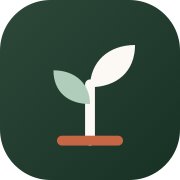
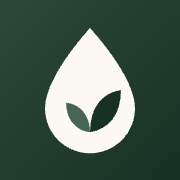
feat(brand): new Bagicha mark, a water drop holding two leaves

diff --git a/web/src/ui/BagichaLogo.tsx b/web/src/ui/BagichaLogo.tsx
@@ -1,21 +1,21 @@
 import { useId } from 'react';
+import { MARK, MARK_COLORS as C } from './bagicha-mark';
 
-/** The Bagicha mark: a cream sprout on a forest-green pebble. Same drawing as public/favicon.svg. */
+/** The Bagicha mark: a cream water drop holding two leaves, on a forest-green pebble. Same drawing as public/favicon.svg. */
 export function BagichaLogo({ size = 56, className }: { size?: number; className?: string }) {
   const gradient = useId();
   return (
     <svg viewBox="0 0 64 64" width={size} height={size} role="img" aria-label="Bagicha logo" className={className}>
       <defs>
         <linearGradient id={gradient} x1="0" y1="0" x2="1" y2="1">
-          <stop offset="0" stopColor="#2d4739" />
-          <stop offset="1" stopColor="#173124" />
+          <stop offset="0" stopColor={C.pebbleFrom} />
+          <stop offset="1" stopColor={C.pebbleTo} />
         </linearGradient>
       </defs>
       <rect width="64" height="64" rx="18" fill={`url(#${gradient})`} />
-      <path d="M32 50V30" stroke="#fcf9f4" strokeWidth="3.5" strokeLinecap="round" />
-      <path d="M32 31c0-9 6.5-15 16-15 0 9.5-6.5 15-16 15z" fill="#fcf9f4" />
-      <path d="M32 37c0-7-5-12-13-12 0 7.5 5 12 13 12z" fill="#b0cdbb" />
-      <path d="M22 50h20" stroke="#c76644" strokeWidth="3.5" strokeLinecap="round" />
+      <path d={MARK.drop} fill={C.drop} />
+      <path d={MARK.leafRight} fill={C.leafRight} />
+      <path d={MARK.leafLeft} fill={C.leafLeft} />
     </svg>
   );
 }

diff --git a/web/src/ui/bagicha-mark.ts b/web/src/ui/bagicha-mark.ts
@@ -1,0 +1,18 @@
+/**
+ * The Bagicha mark (owner's pick, 2026-11-26): a water drop holding two leaves, on a 64×64 grid.
+ * One source for the in-app logo; public/favicon.svg and the Android icons repeat these paths
+ * (a test keeps the favicon in step).
+ */
+export const MARK = {
+  drop: 'M32 10C32 10 48 27 48 38.5A16 16 0 0 1 16 38.5C16 27 32 10 32 10Z',
+  leafRight: 'M32 47C32 38 36.5 33 43 32C43 41 38.5 46 32 47Z',
+  leafLeft: 'M32 47C32 41 28.5 37 23.5 36.5C23.5 42.5 27 46.5 32 47Z',
+} as const;
+
+export const MARK_COLORS = {
+  pebbleFrom: '#2d4739',
+  pebbleTo: '#173124',
+  drop: '#fcf9f4',
+  leafRight: '#173124',
+  leafLeft: '#496455',
+} as const;

diff --git a/web/src/ui/bagicha-mark.test.ts b/web/src/ui/bagicha-mark.test.ts
@@ -1,0 +1,12 @@
+import { readFileSync } from 'node:fs';
+import { resolve } from 'node:path';
+import { describe, expect, it } from 'vitest';
+import { MARK } from './bagicha-mark';
+
+const favicon = readFileSync(resolve(__dirname, '../../public/favicon.svg'), 'utf8');
+
+describe('Bagicha mark', () => {
+  it('the favicon draws the same drop and leaves as the in-app logo', () => {
+    for (const d of [MARK.drop, MARK.leafRight, MARK.leafLeft]) expect(favicon).toContain(`d="${d}"`);
+  });
+});
